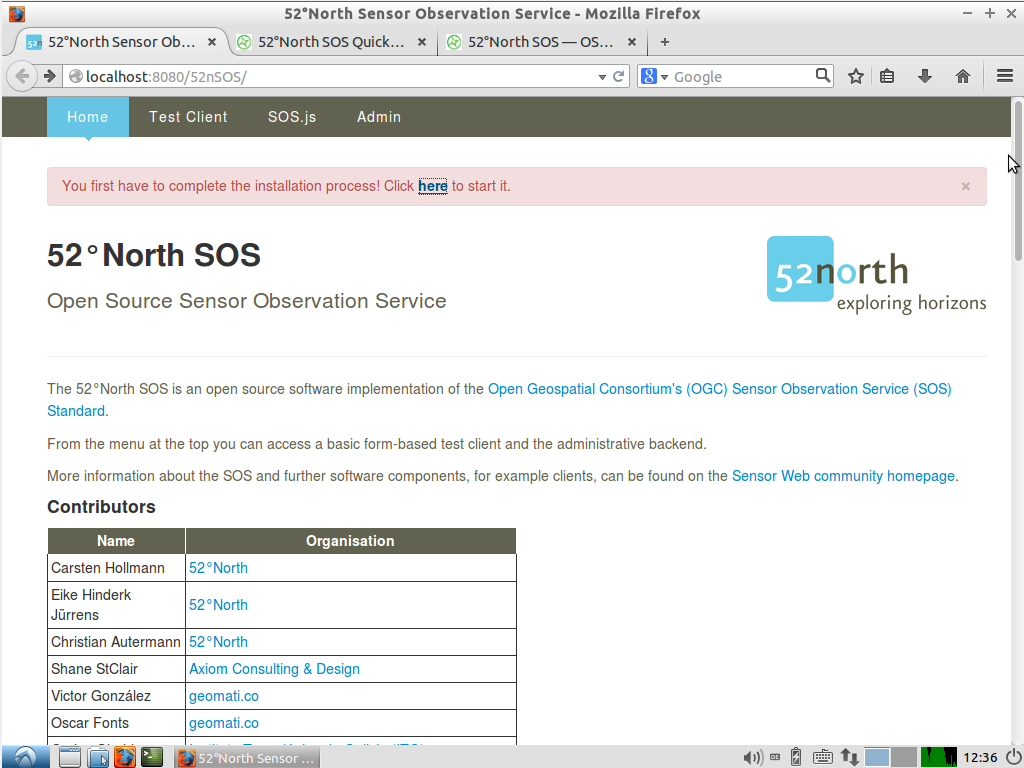
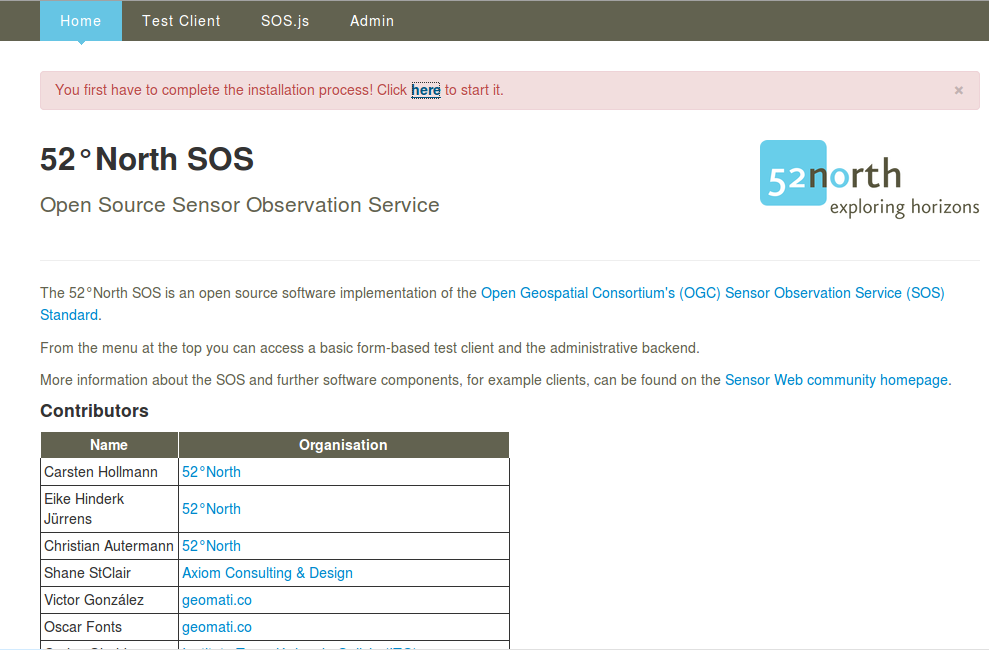
crop, optipng -o5, svn propset, ReST scale
git-svn-id: http://svn.osgeo.org/osgeo/livedvd/gisvm/trunk/doc@11544 7da46fd8-bd2a-0410-a152-cf9810cf5b10

diff --git a/en/quickstart/52nSOS_quickstart.rst b/en/quickstart/52nSOS_quickstart.rst
@@ -30,7 +30,7 @@ Getting Started
 2. This will open the 52°North SOS client welcome page in firefox at http://localhost:8080/52nSOS/.  Open the test client by selecting the version you would like to use, 1.0.0 for example:
 
 .. image:: ../../images/screenshots/1024x768/52n_sos_install_start.png
-  :scale: 100 %
+  :scale: 70 %
   :alt: screenshot of 52°North SOS client welcome page
   :align: center
 
@@ -42,7 +42,7 @@ Getting Started
    2.0 installed.
 
 .. image:: ../../images/screenshots/1024x768/52n_sos_insert_test_data.png
-  :scale: 100 %
+  :scale: 70 %
   :alt: screenshot of 52°North SOS client - test client with batch operation
   :align: center
   
